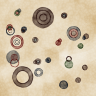
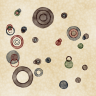
paint: make the ground a per-pixel field instead of a wash of shapes
The grid-of-pools ground left fine arcs across the sheet. That was not a
tuning problem: a pool is a shape and a shape has a boundary, so however
soft its edge was made — raggedness up, rim almost off, the grid bleeding
well past the frame — every boundary that fell inside the canvas stayed
legible. On a picture full of circles they read as more circles.

Wash.Ground evaluates the pigment density per pixel instead: broad-scale
fBm for where the wash pooled, cell noise for where the paper's tooth
caught it. There is nothing that can have an edge, so the only structure
in the ground is the structure asked for. It reuses the pool's pigment
maths exactly — linear-light absorption, the back-scatter floor, Body —
so a ground and a mark in one colour still agree, and it costs one pass
rather than the two-plus coverage a grid needs: 7s to 4.6s at 2000px.

Ground and marks now share one paperTooth, and it is coarser than the
default. The fine default reads as noise rather than grain when spread
over an empty sheet, and a ground and a mark granulating at different
scales are two papers in one picture.

Also fixes a wart the bare-ground work exposed: --count 0 is legal now
(it renders the ground alone), which made "anything negative" a bad
sentinel for "unset" — --count -2 was being silently ignored. The
sentinels are exact values now, so a typo is rejected.

diff --git a/internal/sketch/pools/pools.go b/internal/sketch/pools/pools.go
@@ -30,7 +30,6 @@ import (
 const (
 	streamLayout = 1 // placement, sizes, structure, colour
 	streamPaint  = 2 // per-pool wash deformation
-	streamGround = 3 // the ground wash
 )
 
 // saltPaper salts the granulation lattice so the paper texture is
@@ -43,24 +42,25 @@ const saltGround = 0x67726e // "grn"
 
 // Sketch holds the structural knobs. Per-seed variation happens in place.
 type Sketch struct {
-	Count       int     // anchor circles, before satellites
-	Rungs       int     // steps on the size ladder
-	Base        float64 // smallest rung, canvas units
-	Ratio       float64 // ladder step ratio
-	Satellites  float64 // share of anchors given an overlapping companion
-	Ragged      float64 // wash edge deviation; shoal's blob is 0.22
-	Rings       float64 // share of circles carrying inner rings
-	Open        float64 // share painted as annuli rather than discs
-	Glaze       float64 // share carrying a second pigment on top
-	Banded      float64 // share filled with fine concentric rings
-	BandWidth   float64 // ring pitch of a banded circle, canvas units
-	BandOverlap float64 // how far neighbouring rings cross, ×pitch
-	Alpha       float64 // pool strength
-	Pigments    int     // palette colours in play
-	Ground      float64 // strength of the painted ground wash; 0 is bare paper
-	Margin      float64 // clear paper at the edge
-	Gap         float64 // clearance between anchors, ×radius
-	Candidates  int     // darts thrown per anchor
+	Count        int     // anchor circles, before satellites
+	Rungs        int     // steps on the size ladder
+	Base         float64 // smallest rung, canvas units
+	Ratio        float64 // ladder step ratio
+	Satellites   float64 // share of anchors given an overlapping companion
+	Ragged       float64 // wash edge deviation; shoal's blob is 0.22
+	Rings        float64 // share of circles carrying inner rings
+	Open         float64 // share painted as annuli rather than discs
+	Glaze        float64 // share carrying a second pigment on top
+	Banded       float64 // share filled with fine concentric rings
+	BandWidth    float64 // ring pitch of a banded circle, canvas units
+	BandOverlap  float64 // how far neighbouring rings cross, ×pitch
+	Alpha        float64 // pool strength
+	Pigments     int     // palette colours in play
+	Ground       float64 // strength of the painted ground wash; 0 is bare paper
+	GroundBlotch float64 // wavelength of the ground's unevenness, canvas units
+	Margin       float64 // clear paper at the edge
+	Gap          float64 // clearance between anchors, ×radius
+	Candidates   int     // darts thrown per anchor
 
 	opts cliOptions
 }
@@ -68,24 +68,25 @@ type Sketch struct {
 // New returns the sketch with its defaults.
 func New() *Sketch {
 	return &Sketch{
-		Count:       22,
-		Rungs:       5,
-		Base:        0.030,
-		Ratio:       1.55,
-		Satellites:  0.45,
-		Ragged:      0.055,
-		Rings:       0.34,
-		Open:        0.28,
-		Glaze:       0.16,
-		Banded:      0.3,
-		BandWidth:   0.022,
-		BandOverlap: 0.4,
-		Alpha:       0.74,
-		Pigments:    4,
-		Ground:      0.55,
-		Margin:      0.06,
-		Gap:         0.12,
-		Candidates:  7,
+		Count:        22,
+		Rungs:        5,
+		Base:         0.030,
+		Ratio:        1.55,
+		Satellites:   0.45,
+		Ragged:       0.055,
+		Rings:        0.34,
+		Open:         0.28,
+		Glaze:        0.16,
+		Banded:       0.3,
+		BandWidth:    0.022,
+		BandOverlap:  0.4,
+		Alpha:        0.74,
+		Pigments:     4,
+		Ground:       0.5,
+		GroundBlotch: 0.42,
+		Margin:       0.06,
+		Gap:          0.12,
+		Candidates:   7,
 	}
 }
 
@@ -136,12 +137,12 @@ func (s *Sketch) Render(ctx sketch.Context) (image.Image, error) {
 	// own stream so that changing the marks never repaints the sky.
 	cv := paint.NewCanvas(ctx.Width, ctx.Height, paper)
 	if s.Ground > 0 {
-		paintGround(cv, ctx.RNG(streamGround), groundWash(ctx.Seed^saltGround),
-			aspect, s.Ground, tint)
+		groundWash(ctx.Seed^saltGround).Ground(cv, tint, s.Ground, s.GroundBlotch)
 	}
 
 	wash := paint.DefaultWash(ctx.Seed ^ saltPaper)
 	wash.Ragged = s.Ragged
+	wash.GrainScale = paperTooth
 	prng := ctx.RNG(streamPaint)
 	for _, c := range circles {
 		s.paint(cv, prng, wash, c)
@@ -394,4 +395,24 @@ func weightedPick(rng *rand.Rand, weights []float64) int {
 		}
 	}
 	return len(weights) - 1
+}
+
+// paperTooth is the grain of the sheet, in canvas units. Ground and marks
+// share it because they are on one piece of paper: the default is fine
+// enough to read as noise across an empty ground, and a ground and a mark
+// granulating at different scales are two different papers in one picture.
+const paperTooth = 0.007
+
+// groundWash is the wash the sheet's ground is laid with. It is the one
+// wash in the picture that is meant to be featureless, so everything that
+// gives a pool its character — the stack, the ragged edge, the rim — plays
+// no part. What is left is the unevenness of the pigment and the tooth of
+// the paper, which is all a flat wash has, and both are turned up: spread
+// over a whole sheet they are the only thing there is to see.
+func groundWash(seed uint64) paint.Wash {
+	w := paint.DefaultWash(seed)
+	w.Mottle = 0.95
+	w.Grain = 0.42
+	w.GrainScale = paperTooth
+	return w
 }

diff --git a/internal/paint/groundwash.go b/internal/paint/groundwash.go
@@ -1,0 +1,79 @@
+package paint
+
+import (
+	"math"
+
+	"github.com/jaminalder/go-graphics/internal/mathx"
+	"github.com/jaminalder/go-graphics/internal/noise"
+	"github.com/jaminalder/go-graphics/internal/palette"
+)
+
+// Ground floods the whole canvas with a wash of col, at a density that
+// varies the way a flat wash does when it dries: blotchy at a broad scale
+// where the pigment pooled unevenly, speckled at the paper's own scale
+// where its tooth caught the pigment.
+//
+// It is deliberately not a pool, and not a set of them. A pool is a shape,
+// and a shape has a boundary; laid in a grid to cover a sheet, those
+// boundaries are visible as fine arcs across the ground however soft they
+// are made, and on a picture full of circles they read as more circles.
+// Here there is nothing to have an edge — the density is a field evaluated
+// per pixel, so the only structure in the ground is the structure that was
+// asked for.
+//
+// The pigment behaves exactly as it does in a pool: absorption in linear
+// light, with the same back-scatter floor and the same Body, so a ground
+// and a mark laid in one colour agree.
+//
+// strength is the wash's nominal density, blotch the wavelength of its
+// unevenness in canvas units. Layers, Ragged and Edge play no part — a
+// sheet-wide wash has no edge to be ragged and no rim to dry into.
+func (w Wash) Ground(c *Canvas, col palette.Color, strength, blotch float64) {
+	if strength <= 0 {
+		return
+	}
+	blotch = math.Max(blotch, 1e-3)
+	n := noise.New(w.Seed)
+
+	// One "layer" of pigment at the nominal strength; the field below
+	// varies how much of it landed on each pixel.
+	ar := math.Log(transmit(col.R, mathx.Clamp01(strength)))
+	ag := math.Log(transmit(col.G, mathx.Clamp01(strength)))
+	ab := math.Log(transmit(col.B, mathx.Clamp01(strength)))
+
+	floor := w.Scatter + (1-w.Scatter)*w.Body
+	fr := floor * palette.SRGBToLinear(col.R)
+	fg := floor * palette.SRGBToLinear(col.G)
+	fb := floor * palette.SRGBToLinear(col.B)
+
+	cell := math.Max(w.GrainScale*c.scale, 2.5)
+
+	for y := range c.h {
+		v := (float64(y) + 0.5) / c.scale
+		for x := range c.w {
+			u := (float64(x) + 0.5) / c.scale
+
+			d := 1.0
+			if w.Mottle > 0 {
+				// Three octaves: the broad unevenness of a wash that dried
+				// heavier in some places, with a little structure inside it.
+				// More octaves only add detail the tooth already supplies.
+				d += w.Mottle * n.FBM(u/blotch, v/blotch, 3) / 1.1
+			}
+			if w.Grain > 0 {
+				d *= 1 + w.Grain*(2*tooth(w.Seed, float64(x), float64(y), cell)-1)
+			}
+			if d <= 0 {
+				continue
+			}
+
+			i := y*c.w + x
+			p := c.pix[i]
+			c.pix[i] = palette.Color{
+				R: palette.LinearToSRGB(layer(p.R, math.Exp(d*ar), fr)),
+				G: palette.LinearToSRGB(layer(p.G, math.Exp(d*ag), fg)),
+				B: palette.LinearToSRGB(layer(p.B, math.Exp(d*ab), fb)),
+			}
+		}
+	}
+}

diff --git a/internal/sketch/pools/options.go b/internal/sketch/pools/options.go
@@ -9,24 +9,34 @@ import (
 )
 
 type cliOptions struct {
-	count       int
-	pigments    int
-	rungs       int
-	base        float64
-	ratio       float64
-	satellites  float64
-	ragged      float64
-	rings       float64
-	open        float64
-	glaze       float64
-	banded      float64
-	bandWidth   float64
-	bandOverlap float64
-	alpha       float64
-	ground      float64
-	margin      float64
-	gap         float64
+	count        int
+	pigments     int
+	rungs        int
+	base         float64
+	ratio        float64
+	satellites   float64
+	ragged       float64
+	rings        float64
+	open         float64
+	glaze        float64
+	banded       float64
+	bandWidth    float64
+	bandOverlap  float64
+	alpha        float64
+	ground       float64
+	groundBlotch float64
+	margin       float64
+	gap          float64
 }
+
+// The flag defaults that mean "leave the sketch's own value alone". They
+// are exact sentinels rather than "anything negative", so that a typo like
+// --count -2 is rejected instead of being silently ignored — which is what
+// happened once --count 0 became legal for rendering a bare ground.
+const (
+	unset    = -1.0
+	unsetInt = -1
+)
 
 var _ sketch.Configurable = (*Sketch)(nil)
 
@@ -48,6 +58,7 @@ func (s *Sketch) Flags(fs *flag.FlagSet) {
 	fs.Float64Var(&s.opts.alpha, "alpha", -1, "pool strength; below 1 keeps crossings readable; default 0.62")
 	fs.Float64Var(&s.opts.ground, "ground", -1, "strength of the painted ground wash; 0 is bare paper; default 0.55")
 	fs.Float64Var(&s.opts.gap, "gap", -99, "clearance between circles, x radius; negative lets them overlap; default 0.12")
+	fs.Float64Var(&s.opts.groundBlotch, "ground-blotch", -1, "wavelength of the ground's unevenness, canvas units; default 0.42")
 	fs.Float64Var(&s.opts.margin, "margin", -1, "clear paper at the edge; default 0.06")
 }
 
@@ -72,11 +83,12 @@ func (s *Sketch) Configure() (string, error) {
 		{"band-overlap", s.opts.bandOverlap, 0, 2, &s.BandOverlap, 4},
 		{"alpha", s.opts.alpha, 0.05, 1, &s.Alpha, 2},
 		{"ground", s.opts.ground, 0, 1, &s.Ground, 2},
+		{"ground-blotch", s.opts.groundBlotch, 0.02, 3, &s.GroundBlotch, 6},
 		{"margin", s.opts.margin, 0, 0.4, &s.Margin, 2},
 		{"base", s.opts.base, 0.004, 0.2, &s.Base, 2},
 		{"ratio", s.opts.ratio, 1.05, 3, &s.Ratio, 2},
 	} {
-		if o.val < 0 {
+		if o.val == unset {
 			continue
 		}
 		if o.val < o.lo || o.val > o.hi {
@@ -100,11 +112,11 @@ func (s *Sketch) Configure() (string, error) {
 		lo, hi int
 		dst    *int
 	}{
-		{"count", s.opts.count, 1, 400, &s.Count},
+		{"count", s.opts.count, 0, 400, &s.Count}, // 0 renders the bare ground
 		{"pigments", s.opts.pigments, 1, 12, &s.Pigments},
 		{"rungs", s.opts.rungs, 1, 9, &s.Rungs},
 	} {
-		if o.val < 0 {
+		if o.val == unset {
 			continue
 		}
 		if o.val < o.lo || o.val > o.hi {

diff --git a/internal/sketch/pools/pools_test.go b/internal/sketch/pools/pools_test.go
@@ -133,7 +133,7 @@ func TestConfigureRejectsOutOfRange(t *testing.T) {
 	for _, args := range [][]string{
 		{"--alpha", "2"},
 		{"--ragged", "0.9"},
-		{"--count", "0"},
+		{"--count", "-2"},
 		{"--ratio", "0.5"},
 		{"--pigments", "99"},
 	} {

diff --git a/docs/sketches/008-pools.md b/docs/sketches/008-pools.md
@@ -20,15 +20,20 @@ a believable third colour wherever two discs cross.
 ## Algorithm
 
 1. **Paper, then ground.** The canvas starts as bare paper — the palette's
-   lightest colour taken almost to white. The ground colour is then *laid*
-   on it, not filled: a single tint glazed over the sheet in a few large
-   pools that run off every edge. A flat wash is the first thing a
-   watercolourist learns and the hardest to make even, and it dries with
-   the unevenness of that process in it — heavier where strokes crossed,
-   granulated wherever the tooth caught pigment. What makes it read as
-   painted is that the paper still shows through: the variation is the
-   paper, not a texture laid over a fill. `Ground` is its strength; at 0
-   the sheet is the bare paper it used to be.
+   lightest colour taken almost to white — and a single tint is washed over
+   the whole sheet with `paint.Wash.Ground`. A flat wash dries with the
+   unevenness of its own laying in it: blotchy at a broad scale where the
+   pigment pooled, speckled at the paper's scale where the tooth caught it.
+   Both come from a per-pixel field, not from shapes. The first version
+   covered the sheet with a grid of overlapping pools, and no matter how
+   soft their edges were made, every pool boundary stayed legible as a fine
+   arc — more circles, on a picture already full of them. A field has
+   nothing to have an edge. `Ground` is the wash's strength and
+   `GroundBlotch` the wavelength of its unevenness; at `Ground` 0 the sheet
+   is bare paper.
+
+   Ground and marks granulate at one shared `paperTooth`, because they are
+   on one piece of paper — two grain scales in a picture are two papers.
 2. **Pigments.** `Pigments` colours drawn from the palette by luminance,
    darkest kept as the ink for interior rings. A weighted bag makes one
    pigment dominant and the rest progressively rarer, so the sheet reads as
@@ -73,7 +78,8 @@ a believable third colour wherever two discs cross.
 | `BandOverlap` | 0.4 | how far neighbouring rings cross, ×pitch |
 | `Alpha` | 0.74 | pool strength; below 1 so crossings stay readable |
 | `Pigments` | 4 | palette colours in play |
-| `Ground` | 0.55 | strength of the painted ground wash; 0 is bare paper |
+| `Ground` | 0.5 | strength of the painted ground wash; 0 is bare paper |
+| `GroundBlotch` | 0.42 | wavelength of the ground's unevenness, canvas units |
 | `Margin` | 0.06 | clear paper at the edge |
 | `Gap` | 0.12 | clearance between circles, ×radius; negative lets them cross |
 | `Gap` | 0.12 | clearance between anchors, ×radius |
@@ -150,7 +156,9 @@ closed. The set in `out/discs` steps all four across five levels:
       between that muddles the two.
 - [ ] Paper grain is visible inside the pools and absent outside them.
 - [ ] The ground reads as a laid wash — uneven, granulated, paper showing
-      through — with no pool boundary legible as a circle inside the frame.
+      through — with **no line, arc or edge of any kind** legible in it.
+- [ ] The ground and the marks granulate at the same scale: one sheet of
+      paper, not two.
 - [ ] A banded circle is filled edge to centre with no pinhole, its seams
       read as fine contour lines, and its colour graduates rather than
       jumping band to band.

diff --git a/docs/ARCHITECTURE.md b/docs/ARCHITECTURE.md
@@ -262,7 +262,7 @@ type Traited interface {
 
 | 26 | `Wash` caps a ring's raggedness against its own width | Raggedness is an edge deviation measured against the radius, which is right for a pool's silhouette and wrong for a narrow band: the outer and inner boundaries wander independently, so once the deviation approaches the width they cross and the ring dries as a string of beads. The cap lives in `lay` rather than in each caller because it is a property of the primitive, and because it is what makes a run of fine concentric rings — sketch 008's banded circle — possible at all. A filled pool is as wide as it is round, so the cap never binds and `Pool` is untouched. |
 
-| 27 | The ground is glazed on, not filled | A flat wash is the hardest thing in watercolour to make even, and it dries with the unevenness of the process in it. Sketch 008 therefore starts the canvas as bare paper and lays the ground colour over it in a grid of large pools that run off every edge — so the variation is the paper showing through a real wash, not a texture applied to a flat fill, and the marks standing on it stop reading as computed. The grid bleeds well past the canvas because a pool boundary inside the frame reads as a circle on the ground, in a sketch already full of circles. It is the one wash in the picture meant to be featureless, so it runs on a quarter of the usual deposit stack; a pool the size of the canvas pays for its stack on every pixel it covers, and at a full stack the ground was four times the cost of the artwork. |
+| 27 | The ground is a per-pixel field, not a wash of shapes | A flat wash dries with the unevenness of its own laying in it, so sketch 008's ground has to vary — but the first version covered the sheet with a grid of overlapping `Pool`s, and a pool is a shape. However soft its edge was made (raggedness up, rim almost off, generous bleed past the frame), every boundary that fell inside the canvas stayed legible as a fine arc, which on a picture full of circles reads as more circles. `Wash.Ground` evaluates the pigment density per pixel instead — broad-scale fBm for the pooling, cell noise for the tooth — so there is nothing that *can* have an edge, and the only structure in the ground is the structure asked for. It reuses the pool's pigment maths exactly (linear-light absorption, back-scatter floor, `Body`), so a ground and a mark in one colour agree, and it costs a single pass instead of the two-plus coverage a grid needs. |
 
 ## 9. Roadmap
 
